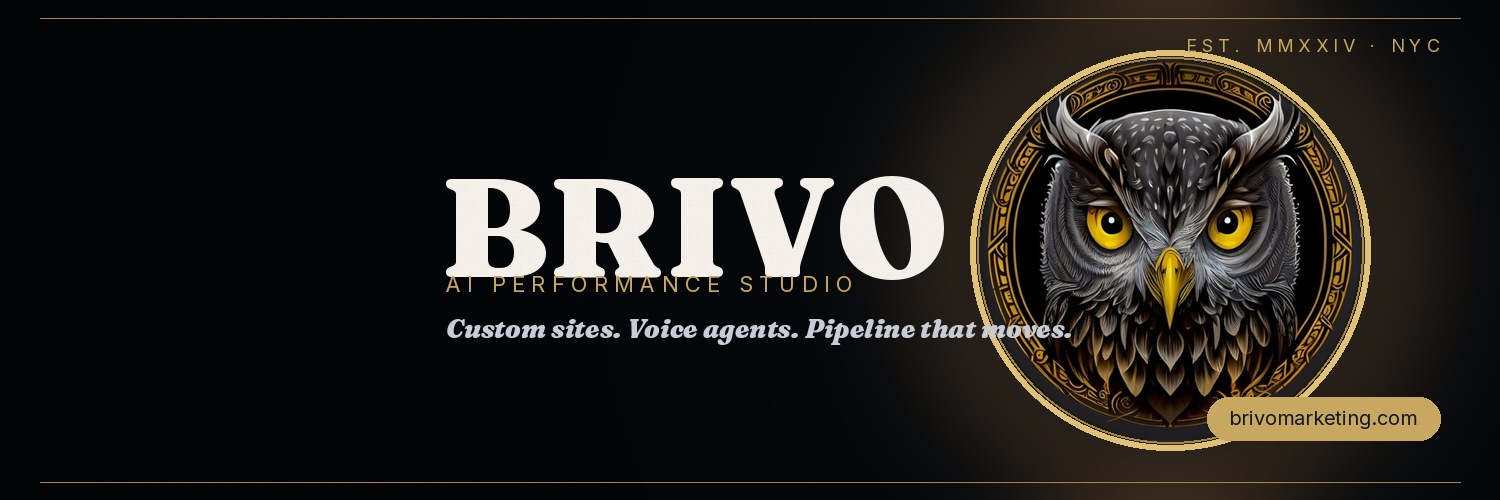
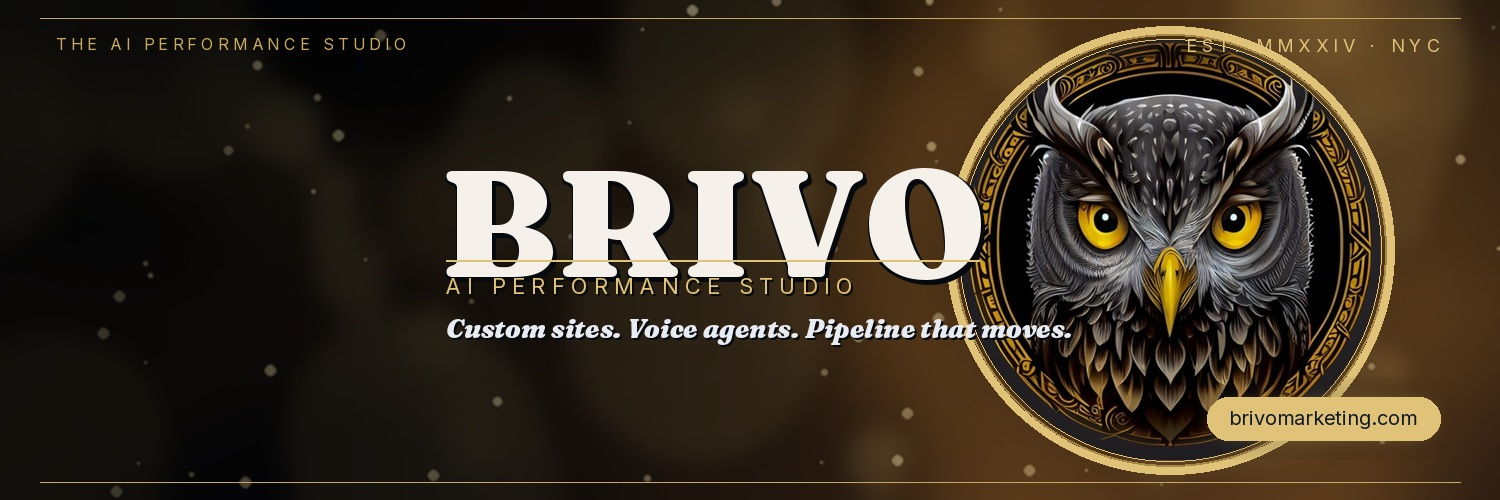
auto-commit for cdb5ca5a-15e2-4a67-a762-955cf84f5a03

diff --git a/scripts/generate_x_assets.py b/scripts/generate_x_assets.py
@@ -101,6 +101,118 @@ def add_noise(img: Image.Image, strength: int = 6) -> Image.Image:
 
 
 # ---------------------------------------------------------------------------
+# Cinematic background — navy/gold silk drape + gold bokeh
+# ---------------------------------------------------------------------------
+
+def cinematic_background(size: tuple[int, int]) -> Image.Image:
+    """Navy-to-amber gradient with gold bokeh and silk-drape curves.
+    Deliberately NOT a plain black field."""
+    import math
+    import random
+
+    W, H = size
+    # 1) Base diagonal gradient: deep navy top-left → warmer aubergine-gold bottom-right
+    base = Image.new("RGB", size, NAVY_DEEP)
+    px = base.load()
+    for y in range(H):
+        for x in range(W):
+            t = (x / W) * 0.55 + (y / H) * 0.45
+            # Blend navy_deep -> navy_soft with a hint of warmth
+            r = int(NAVY_DEEP[0] * (1 - t) + (40 + 30 * t) * t)
+            g = int(NAVY_DEEP[1] * (1 - t) + (38 + 18 * t) * t)
+            b = int(NAVY_DEEP[2] * (1 - t) + (55 + 12 * t) * t)
+            px[x, y] = (max(0, min(255, r)),
+                        max(0, min(255, g)),
+                        max(0, min(255, b)))
+
+    # 2) Warm amber radial glow on the right (where the owl will sit)
+    glow = Image.new("RGB", size, (0, 0, 0))
+    gd = ImageDraw.Draw(glow)
+    cx, cy = int(W * 0.78), H // 2
+    max_r = int(max(W, H) * 0.7)
+    for i in range(max_r, 0, -4):
+        k = (1 - i / max_r) ** 2
+        color = (
+            int(min(255, GOLD[0] * 0.7 * k)),
+            int(min(255, GOLD[1] * 0.5 * k)),
+            int(min(255, GOLD[2] * 0.25 * k)),
+        )
+        gd.ellipse((cx - i, cy - i, cx + i, cy + i), fill=color)
+    glow = glow.filter(ImageFilter.GaussianBlur(80))
+    base = Image.blend(base, glow, 0.60)
+
+    # 3) Silk-drape curves: soft sweeping bands suggesting fabric in motion
+    drape = Image.new("RGBA", size, (0, 0, 0, 0))
+    dd = ImageDraw.Draw(drape)
+    for i, amp in enumerate([90, 130, 170, 80, 110]):
+        phase = i * 0.9
+        freq = 0.0025 + i * 0.0004
+        shade = 18 + i * 6
+        alpha = 55 - i * 6
+        color = (GOLD[0], GOLD[1] - shade, GOLD[2] - shade, max(10, alpha))
+        pts = []
+        y_center = H * (0.22 + i * 0.16)
+        for x in range(0, W + 8, 8):
+            y = y_center + amp * math.sin(freq * x + phase)
+            pts.append((x, y))
+        # Build a thick stroke by drawing band polygon
+        top = [(x, y - 60 - i * 8) for x, y in pts]
+        bot = [(x, y + 60 + i * 8) for x, y in reversed(pts)]
+        dd.polygon(top + bot, fill=color)
+    drape = drape.filter(ImageFilter.GaussianBlur(40))
+    base = Image.alpha_composite(base.convert("RGBA"), drape).convert("RGB")
+
+    # 4) Gold bokeh — three size tiers for depth
+    bokeh = Image.new("RGBA", size, (0, 0, 0, 0))
+    bd = ImageDraw.Draw(bokeh)
+    random.seed(42)
+    # Large soft bokeh
+    for _ in range(14):
+        x = random.randint(-40, W + 40)
+        y = random.randint(-20, H + 20)
+        r = random.randint(60, 140)
+        a = random.randint(28, 60)
+        bd.ellipse((x - r, y - r, x + r, y + r),
+                   fill=(GOLD_BRIGHT[0], GOLD_BRIGHT[1], GOLD_BRIGHT[2], a))
+    # Medium bokeh
+    for _ in range(26):
+        x = random.randint(0, W)
+        y = random.randint(0, H)
+        r = random.randint(22, 50)
+        a = random.randint(45, 90)
+        bd.ellipse((x - r, y - r, x + r, y + r),
+                   fill=(GOLD_BRIGHT[0], GOLD_BRIGHT[1], GOLD_BRIGHT[2], a))
+    bokeh_large = bokeh.filter(ImageFilter.GaussianBlur(14))
+
+    # Sharp tiny sparkles
+    sparkle = Image.new("RGBA", size, (0, 0, 0, 0))
+    sd = ImageDraw.Draw(sparkle)
+    for _ in range(55):
+        x = random.randint(0, W)
+        y = random.randint(0, H)
+        r = random.randint(2, 6)
+        a = random.randint(160, 230)
+        sd.ellipse((x - r, y - r, x + r, y + r),
+                   fill=(255, 235, 180, a))
+    sparkle = sparkle.filter(ImageFilter.GaussianBlur(1.2))
+
+    base_rgba = base.convert("RGBA")
+    base_rgba = Image.alpha_composite(base_rgba, bokeh_large)
+    base_rgba = Image.alpha_composite(base_rgba, sparkle)
+
+    # 5) Left-side darkening for profile-pic safe zone + text legibility
+    shade = Image.new("RGBA", size, (0, 0, 0, 0))
+    sh = ImageDraw.Draw(shade)
+    # Subtle left vignette so profile pic contrasts + text reads
+    for i in range(W // 2):
+        a = int(max(0, 120 - (i / (W / 2)) * 120))
+        sh.line([(i, 0), (i, H)], fill=(5, 8, 12, a))
+    base_rgba = Image.alpha_composite(base_rgba, shade)
+
+    return base_rgba.convert("RGB")
+
+
+# ---------------------------------------------------------------------------
 # X PROFILE AVATAR — 1500x1500, owl dominant
 # ---------------------------------------------------------------------------
 
@@ -173,85 +285,104 @@ def build_x_avatar(out_name: str = "x-avatar.jpg") -> Path:
 def build_x_header(out_name: str = "x-header.jpg") -> Path:
     W, H = 1500, 500
 
-    # Dark radial backdrop with glow pulled to the right of centre where
-    # the owl will sit
-    canvas = radial_gradient((W, H), NAVY_SOFT, NAVY_DEEP,
-                             center=(int(W * 0.78), H // 2),
-                             radius_scale=0.65).convert("RGB")
+    # Cinematic layered backdrop (silk drape + gold bokeh + amber glow)
+    canvas = cinematic_background((W, H))
 
-    # Amber glow disc behind owl
+    # Deeper amber glow disc pinned behind the owl anchor
     glow = Image.new("RGB", (W, H), (0, 0, 0))
     gd = ImageDraw.Draw(glow)
     owl_cx, owl_cy = int(W * 0.78), H // 2
-    for i in range(30):
-        r = int(260 - i * 7)
+    for i in range(36):
+        r = int(320 - i * 7)
         if r <= 0:
             break
-        alpha = (1 - i / 30) ** 2
+        alpha = (1 - i / 36) ** 2
         color = (
-            int(min(255, GOLD[0] * 0.55 * alpha + NAVY_DEEP[0])),
-            int(min(255, GOLD[1] * 0.40 * alpha + NAVY_DEEP[1])),
-            int(min(255, GOLD[2] * 0.22 * alpha + NAVY_DEEP[2])),
+            int(min(255, GOLD_BRIGHT[0] * 0.75 * alpha)),
+            int(min(255, GOLD_BRIGHT[1] * 0.55 * alpha)),
+            int(min(255, GOLD_BRIGHT[2] * 0.30 * alpha)),
         )
         gd.ellipse((owl_cx - r, owl_cy - r, owl_cx + r, owl_cy + r),
                    fill=color)
-    glow = glow.filter(ImageFilter.GaussianBlur(45))
-    canvas = Image.blend(canvas, glow, 0.55)
+    glow = glow.filter(ImageFilter.GaussianBlur(55))
+    canvas = Image.blend(canvas, glow, 0.48)
 
-    # Owl — 380px diameter, right side, centred vertically
-    owl_d = 380
+    # Owl — bumped to 420px diameter for more presence on the rich bg
+    owl_d = 420
     owl = prepare_owl_circle(owl_d)
     owl_x = owl_cx - owl_d // 2
     owl_y = owl_cy - owl_d // 2
     canvas.paste(owl, (owl_x, owl_y), owl)
 
-    # Dual gold rings around owl
+    # Triple gold ring — outer thick bright, middle deep, inner hairline
     draw = ImageDraw.Draw(canvas)
-    outer_r = owl_d // 2 + 10
-    inner_r = owl_d // 2 + 3
-    draw.ellipse((owl_cx - outer_r, owl_cy - outer_r,
-                  owl_cx + outer_r, owl_cy + outer_r),
-                 outline=GOLD_BRIGHT, width=6)
-    draw.ellipse((owl_cx - inner_r, owl_cy - inner_r,
-                  owl_cx + inner_r, owl_cy + inner_r),
+    r_outer = owl_d // 2 + 14
+    r_mid = owl_d // 2 + 6
+    r_inner = owl_d // 2 + 1
+    draw.ellipse((owl_cx - r_outer, owl_cy - r_outer,
+                  owl_cx + r_outer, owl_cy + r_outer),
+                 outline=GOLD_BRIGHT, width=8)
+    draw.ellipse((owl_cx - r_mid, owl_cy - r_mid,
+                  owl_cx + r_mid, owl_cy + r_mid),
                  outline=GOLD_DEEP, width=2)
+    draw.ellipse((owl_cx - r_inner, owl_cy - r_inner,
+                  owl_cx + r_inner, owl_cy + r_inner),
+                 outline=GOLD_BRIGHT, width=1)
 
-    # Gold hairline rules at top + bottom for editorial frame
-    draw.line([(40, 18), (W - 40, 18)], fill=GOLD_DEEP, width=1)
-    draw.line([(40, H - 18), (W - 40, H - 18)], fill=GOLD_DEEP, width=1)
+    # Gold hairline rules top + bottom
+    draw.line([(40, 18), (W - 40, 18)], fill=GOLD, width=1)
+    draw.line([(40, H - 18), (W - 40, H - 18)], fill=GOLD, width=1)
 
     # Top-right small-caps label
     f_label = load_inter(18)
     label = "E S T .   M M X X I V   ·   N Y C"
     lbox = draw.textbbox((0, 0), label, font=f_label)
     lw = lbox[2] - lbox[0]
-    draw.text((W - 60 - lw, 34), label, font=f_label, fill=GOLD)
+    draw.text((W - 60 - lw, 34), label, font=f_label, fill=GOLD_BRIGHT)
+
+    # Top-left small-caps label (appears above profile pic zone, stays visible
+    # on desktop above where the circle sits)
+    f_label2 = load_inter(16)
+    draw.text((56, 34),
+              "T H E   A I   P E R F O R M A N C E   S T U D I O",
+              font=f_label2, fill=GOLD)
 
     # ----- Central wordmark block -----
-    # X's profile pic overlay lives roughly x=73..207 on desktop and can
-    # shift on mobile — we start the wordmark at x=440 for a clean buffer.
-    # Wordmark
-    f_word = load_fraunces(140)
+    # Wordmark — Fraunces 150, pushed to x=440 so X's profile-pic overlay
+    # (which ends around x=197) has a clean 243px buffer.
+    f_word = load_fraunces(150)
     word = "BRIVO"
     wbox = draw.textbbox((0, 0), word, font=f_word)
     ww = wbox[2] - wbox[0]
     wh = wbox[3] - wbox[1]
     wx = 440
-    wy = 140
+    wy = 130
+
+    # Drop-shadow pass for wordmark readability over the rich bg
+    for dx, dy in [(4, 5), (-1, 3), (3, 1)]:
+        draw.text((wx + dx, wy + dy), word, font=f_word, fill=(6, 9, 14))
     draw.text((wx, wy), word, font=f_word, fill=IVORY)
+
+    # Gold hairline under the wordmark
+    draw.line([(wx + 6, wy + wh + 18), (wx + ww - 6, wy + wh + 18)],
+              fill=GOLD_BRIGHT, width=2)
 
     # Tagline
     f_tag = load_inter(22)
     tag = "A I   P E R F O R M A N C E   S T U D I O"
-    draw.text((wx + 6, wy + wh + 26), tag, font=f_tag, fill=GOLD)
+    # Tagline shadow for legibility
+    draw.text((wx + 8, wy + wh + 32), tag, font=f_tag, fill=(6, 9, 14))
+    draw.text((wx + 6, wy + wh + 30), tag, font=f_tag, fill=GOLD_BRIGHT)
 
     # Italic descriptor
     f_desc = load_fraunces(26, italic=True)
     desc = "Custom sites. Voice agents. Pipeline that moves."
-    draw.text((wx + 6, wy + wh + 68), desc, font=f_desc,
-              fill=(200, 205, 215))
+    draw.text((wx + 8, wy + wh + 72), desc, font=f_desc,
+              fill=(6, 9, 14))
+    draw.text((wx + 6, wy + wh + 70), desc, font=f_desc,
+              fill=(232, 235, 242))
 
-    # CTA pill — bottom-right, outside the mobile-cropped zone
+    # CTA pill — bottom-right
     f_cta = load_inter(20)
     cta = "brivomarketing.com"
     cbox = draw.textbbox((0, 0), cta, font=f_cta)
@@ -262,26 +393,25 @@ def build_x_header(out_name: str = "x-header.jpg") -> Path:
     pill_h = ch + pill_pad_y * 2
     pill_x = W - 60 - pill_w
     pill_y = H - 60 - pill_h
+    # Soft glow under pill
+    glow_pill = Image.new("RGBA", (pill_w + 40, pill_h + 40), (0, 0, 0, 0))
+    ImageDraw.Draw(glow_pill).rounded_rectangle(
+        (20, 20, pill_w + 20, pill_h + 20),
+        radius=pill_h // 2,
+        fill=(GOLD_BRIGHT[0], GOLD_BRIGHT[1], GOLD_BRIGHT[2], 120),
+    )
+    glow_pill = glow_pill.filter(ImageFilter.GaussianBlur(14))
+    canvas.paste(glow_pill, (pill_x - 20, pill_y - 20), glow_pill)
+    draw = ImageDraw.Draw(canvas)
     draw.rounded_rectangle(
         (pill_x, pill_y, pill_x + pill_w, pill_y + pill_h),
-        radius=pill_h // 2, fill=GOLD,
+        radius=pill_h // 2, fill=GOLD_BRIGHT,
     )
     draw.text((pill_x + pill_pad_x, pill_y + pill_pad_y - 4),
               cta, font=f_cta, fill=INK)
 
-    # Subtle grain over whole canvas
-    grain = Image.new("L", canvas.size, 0)
-    import random
-    gpx = grain.load()
-    for y in range(0, H, 2):
-        for x in range(0, W, 2):
-            gpx[x, y] = random.randint(0, 10)
-    grain = grain.filter(ImageFilter.GaussianBlur(0.3))
-    black = Image.new("RGB", canvas.size, (0, 0, 0))
-    canvas = Image.composite(black, canvas, grain)
-
     out = ASSETS / out_name
-    canvas.save(out, "JPEG", quality=93, optimize=True, progressive=True)
+    canvas.save(out, "JPEG", quality=94, optimize=True, progressive=True)
     return out
 
 
